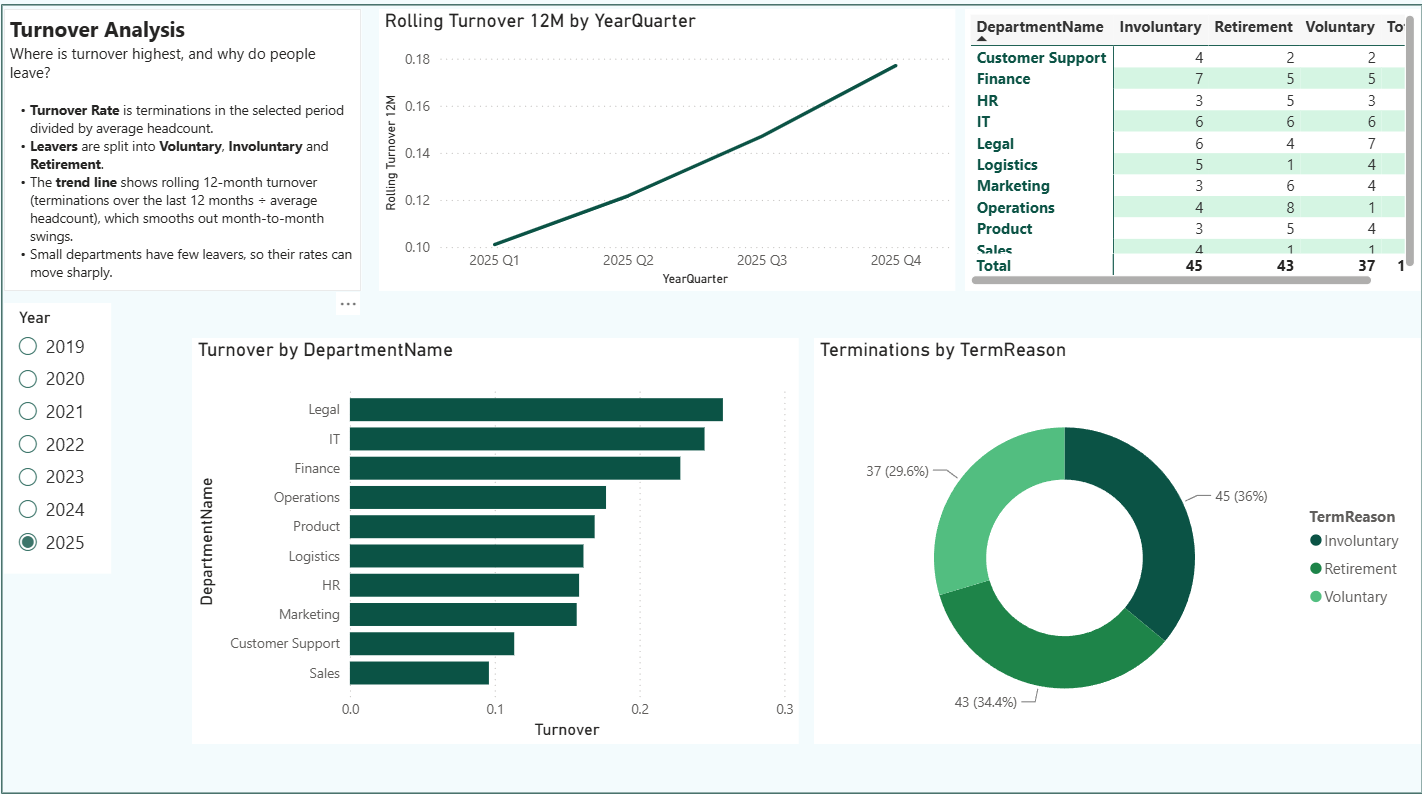
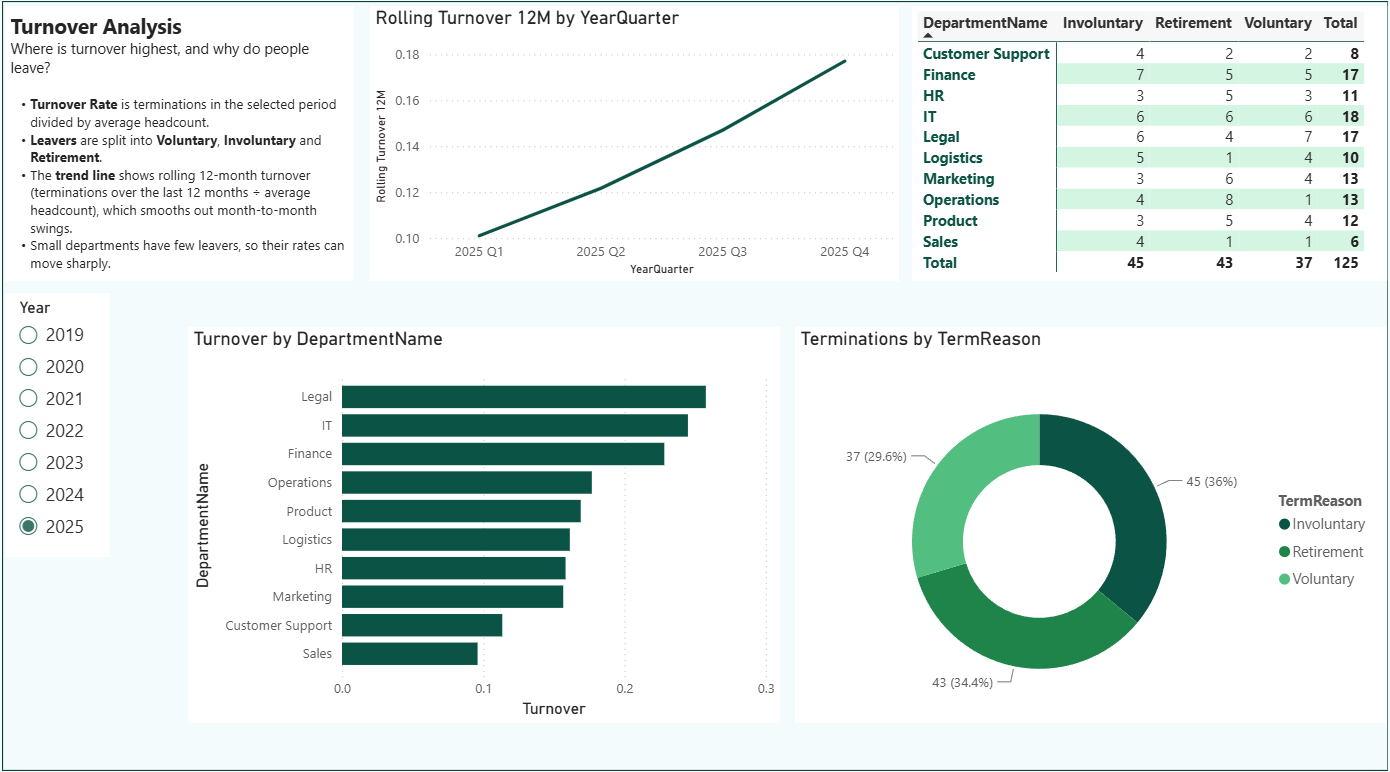
Update README and report screenshots

diff --git a/README.md b/README.md
@@ -20,7 +20,8 @@ A Python ETL pipeline and a four-page Power BI report that answer core people-an
 8. [Validation](#validation)
 9. [Assumptions and limitations](#assumptions-and-limitations)
 10. [How to run this project](#how-to-run-this-project)
-11. [License.md](#license)
+11. [AI assistance](#ai-assistance)
+12. [License.md](#license)
 
 ---
 
@@ -207,16 +208,17 @@ Hires by month and department, promotions per month (Promotion events only), and
 
 ## Validation
 
-Measures were reconciled against independent pandas calculations from the CSVs.
+Claude independently recomputed the figures below from the generated CSVs with pandas and compared them with the values shown in the report.
 
-| Check | Power BI | pandas |
+| Check | Report | Recomputed from CSVs |
 |---|---|---|
 | 2019: hires / terminations / EOP / turnover | 148 / 4 / 144 / 5.56% | 148 / 4 / 144 / 5.56% |
 | 2024 turnover (YTD, December) | 8.75% | 8.75% |
 | 2025: hires / terminations / EOP / turnover | 147 / 125 / 717 / 17.71% | 147 / 125 / 717 / 17.71% |
-| Hires - terminations = change in month-end headcount | all 84 months | all 84 months |
-| Page 3 headcount by department, job level, tenure band | matches | matches |
-| Promotions by month, avg. tenure at exit by department | matches | matches |
+| Page 3 headcount by department, job level, tenure band (2022, 2025) | matches | matches |
+| Promotions by month, avg. tenure at exit by department (2022, 2025) | matches | matches |
+
+The recomputation also confirmed that hires minus terminations equals the change in month-end headcount in all 84 months once the snapshot excludes people terminated on the month-end date.
 
 ---
 
@@ -266,10 +268,21 @@ The parameter value stored in this repository is the author's local path, so ref
 
 ---
 
+## AI assistance
+
+I used AI assistants (Claude and Microsoft Copilot) while building this project. Its goal was to improve my Python and Power BI skills, so I used them as reviewers and advisors, not as authors of the solution:
+
+- **Report themes** (`config/`): generated with Copilot.
+- **Documentation:** the README was drafted with AI assistance and edited by me.
+- **Validation:** Claude independently recomputed the key figures from the generated CSVs with pandas and compared them with the values shown in the report (see [Validation](#validation)).
+- **Code, data model and DAX:** I designed the data model, wrote the ETL script and built the report. AI helped me review DAX measures, fix syntax and logic errors, apply patterns for year-to-date and rolling calculations, and spot edge cases in the data. The main design decisions, such as building the employee master and monthly snapshot tables, were mine.
+
+---
+
 ## License
 
 Released under the [PolyForm Noncommercial License 1.0.0](LICENSE). You may read, run and modify the code and report for any noncommercial purpose, including personal study, research and education. Commercial use requires permission from the author.
 
 ---
 
-**Author:** [TODO: your name and link, e.g. LinkedIn]
+**Author:** Błażej Koziarek https://github.com/bkoziarek/
